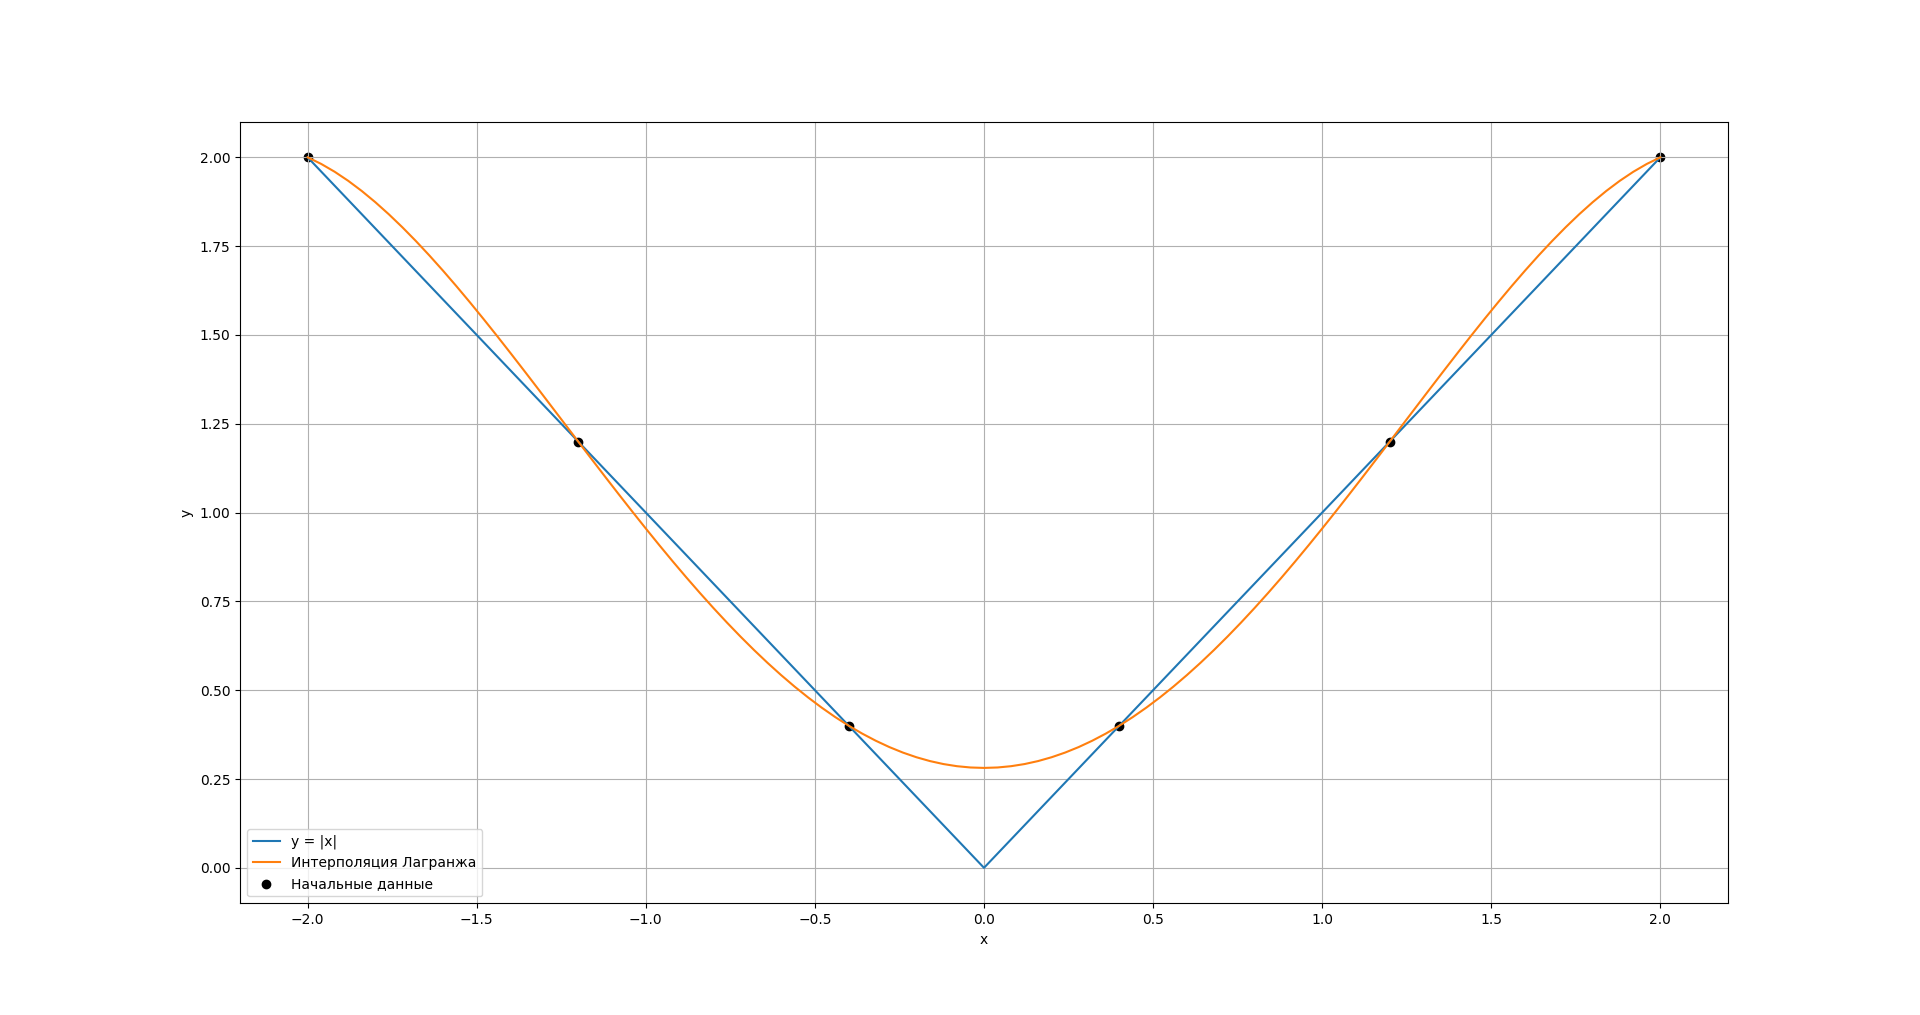
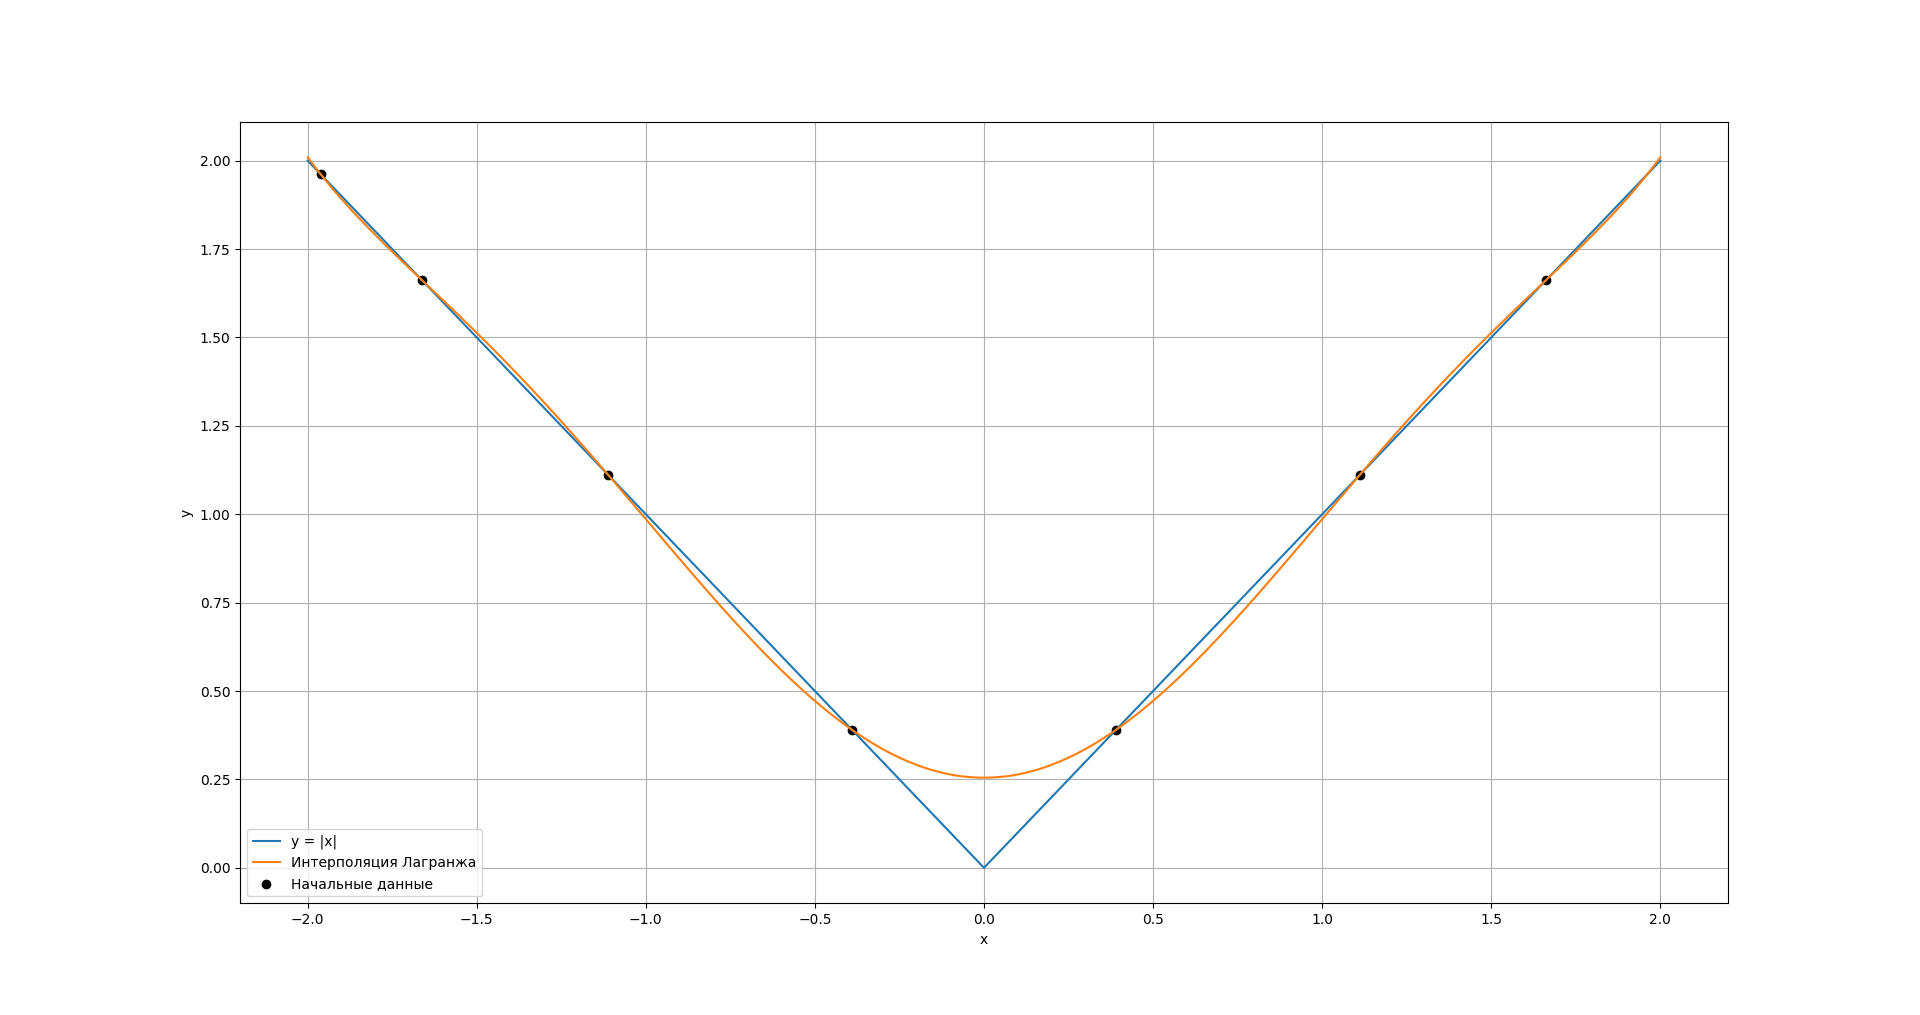
поправил лабы 6-7

diff --git a/labs/laba6/Interpolation.py b/labs/laba6/Interpolation.py
@@ -6,7 +6,7 @@ from matplotlib import pyplot as plt
 1. https://ru.wikipedia.org/wiki/Интерполяционный_многочлен_Лагранжа
 2. https://www.youtube.com/watch?v=nj2RBZ6xFeY
 3. https://goo.su/4skJFSh --> глава 1, страница 42
-=============== Начальные условия ===============
+=============== Начальные условия ================
               y = |x|, x ∈ [-2; 2]
 """
 
@@ -19,30 +19,35 @@ def method_lagrange(x_values, y_values, x):
     :return:          - результат вычислений методом Лагранжа
     """
     result = 0
-    for i in range(len(x_values)): # реализация метода Лагранжа
-        step = y_values[i]
+    for i in range(len(x_values)):  # реализация метода Лагранжа
+        li_x = y_values[i]
         for j in range(len(x_values)):
             if i != j:
-                step *= (x - x_values[j]) / (x_values[i] - x_values[j])
-        result += step
+                li_x *= (x - x_values[j]) / (x_values[i] - x_values[j])
+        result += li_x
     return result
 
 
 def main():
     x = 3      # x для примера
-    steps = 6  # кол-во точек для графика
-    x_values = np.linspace(-2, 2, steps)  # значения функции по оси ординат
-    y_values = abs(x_values)                    # значения функции по оси абсцисс
+    steps = 7  # кол-во точек для графика
+    a = 2
+    b = -2
+
+    x_values = np.linspace(-2, 2, steps)
+    ch_values = [(b + a) / 2 + ((b - a) / 2) * np.cos(((2 * i + 1) / (2 * (steps + 1))) * np.pi)
+                 for i in range(steps)]  # значения функции по оси ординат
+    y_values = np.abs(ch_values)              # значения функции по оси абсцисс
 
     print(f"x = {x_values}\ny = {y_values}")
     print(f"при x = {x} y = {np.round(method_lagrange(x_values, y_values, x), 2)}")
 
-    x_i_values = np.linspace(-2, 2, 101)
-    y_i_values = method_lagrange(x_values, y_values, x_i_values)
+    x_i_values = np.linspace(-2, 2, 200)
+    y_i_values = method_lagrange(ch_values, y_values, x_i_values)
 
-    plt.plot(x_i_values, np.abs(x_i_values), label="y = |x|")           # вывод оригинального графика
-    plt.plot(x_i_values, y_i_values, label="Интерполяция Лагранжа")     # график через метод Лагранжа
-    plt.scatter(x_values, y_values, color="black", label="Начальные данные")  # точки для метода Лагранжа
+    plt.plot(x_values, np.abs(x_values), label="y = |x|")                 # вывод оригинального графика
+    plt.plot(x_i_values, y_i_values, label="Интерполяция Лагранжа")           # график через метод Лагранжа
+    plt.scatter(ch_values, y_values, color="black", label="Начальные данные")  # точки для метода Лагранжа
     plt.xlabel("x")
     plt.ylabel("y")
     plt.legend()

diff --git a/labs/laba7/Sorts.py b/labs/laba7/Sorts.py
@@ -1,17 +1,29 @@
+import random
+from time import time
+
+
 """  Сортировки: пузырьковая, быстрая, подсчётом  """
+
+count_bubble = 0
+count_quick = 0
+count_count = 0
 
 
 def bubble_sort(array):
+    global count_bubble
     for i in range(len(array)):
         for j in range(len(array)):
             if array[i] < array[j]:
                 temp = array[i]
                 array[i] = array[j]
                 array[j] = temp
+                count_bubble += 1
     return array
 
 
 def quick_sort(array):
+    global count_quick
+    count_quick += 1
     if len(array) > 1:
         pivot = array[len(array) // 2]             # определяем опорный элемент,
         less = [u for u in array if u < pivot]     # массив с элементами меньше опорного
@@ -23,24 +35,44 @@ def quick_sort(array):
 
 
 def count_sort(array):
+    global count_count
     count = [0] * (max(array) - min(array) + 1)  # массив подсчёта встречающихся элементов
 
     for num in array:                            # подсчёт встречающихся элементов
         count[num - min(array)] += 1
+        count_count += 1
 
     restored_array = []                          # восстанавливаем массив с помощью досчитанных значений
     for i, num in enumerate(count):
         restored_array.extend([i + min(array)] * num)
-    return  restored_array
+        count_count += num
+    return restored_array
 
 
 def main():
-    array = [7, 1, 15, 90, 5, 3, 71, 23, 15, 40] # начальный массив для сортировки
+    # array = [7, 1, 15, 90, 5, 3, 71, 23, 15, 40] # начальный массив для сортировки
+    array = []
+    for i in range(2000):
+        array.append(random.randint(-1000, 1000))
+    print(f"неотсортированный массив:\t{array}\n")
 
-    print(f"неотсортированный массив:\t{array}")
+    start_bubble = time()
     print(f"пузырьковая сортировка:\t\t{bubble_sort(array)}")
+    end_bubble = time()
+    print(f"время бабл {end_bubble - start_bubble}")
+    print(f"итерации бабл - {count_bubble}\n")
+
+    start_quick = time()
     print(f"быстрая сортировка:\t\t\t{quick_sort(array)}")
+    end_quick = time()
+    print(f"время квик {end_quick - start_quick}")
+    print(f"итерации квик - {count_quick}\n")
+
+    start_count = time()
     print(f"сортировка суммированием:\t{count_sort(array)}")
+    end_count = time()
+    print(f"время подсчёт {end_count - start_count}")
+    print(f"итерации подсчёт - {count_count}\n")
 
 
 if __name__ == "__main__":
